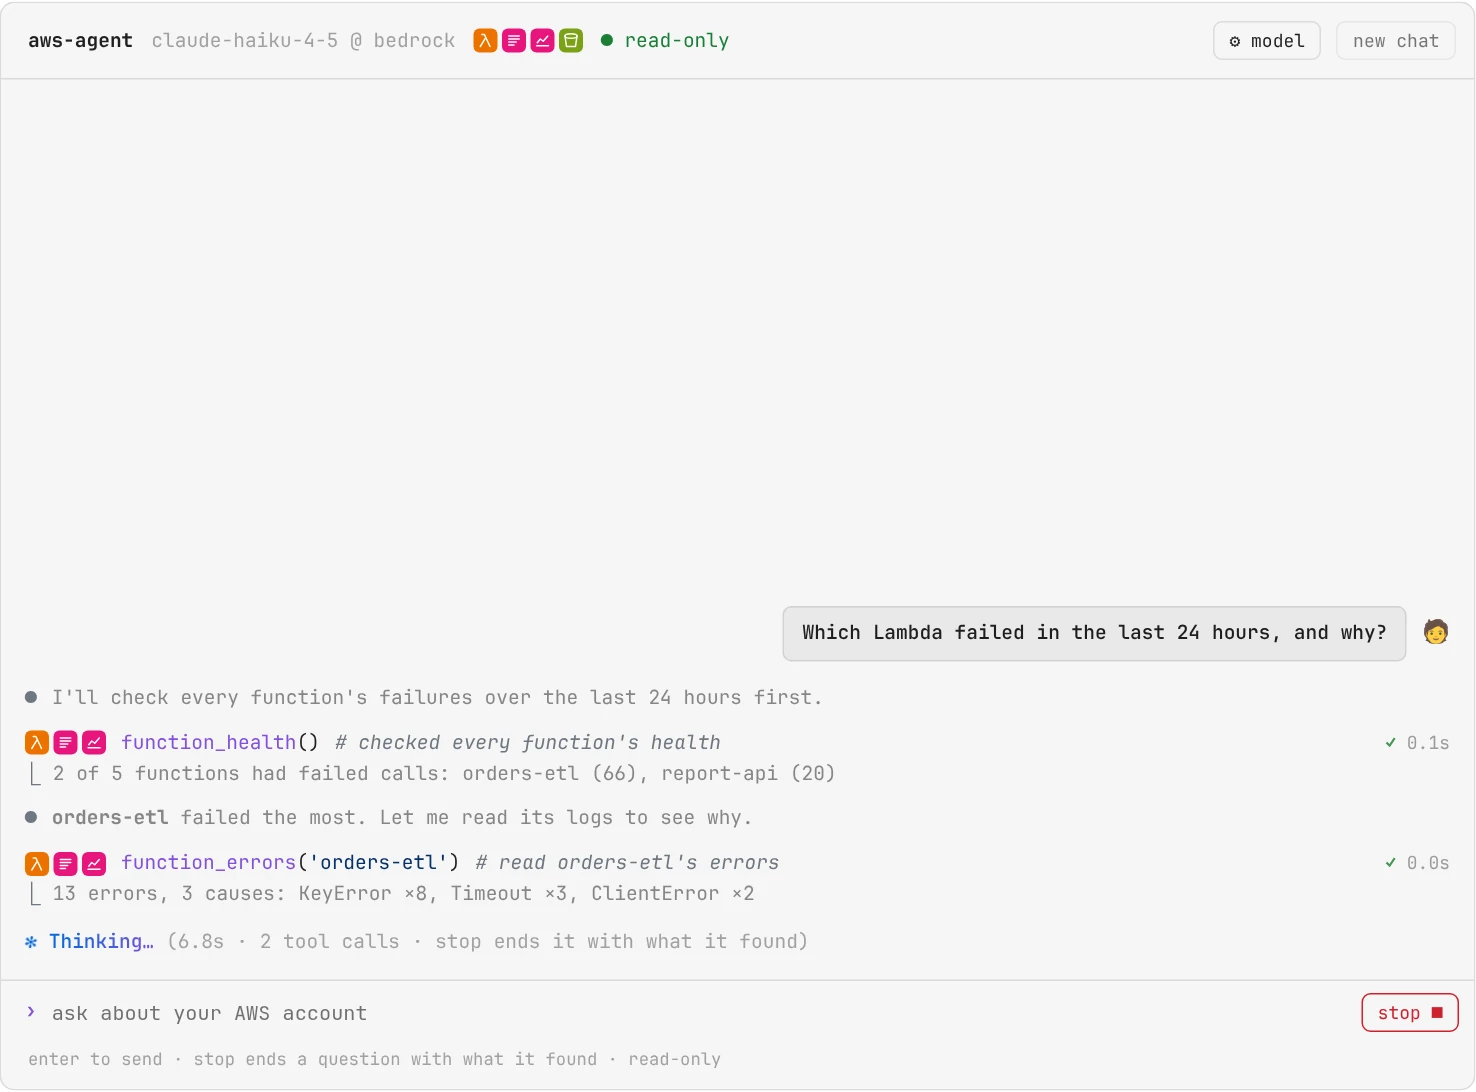
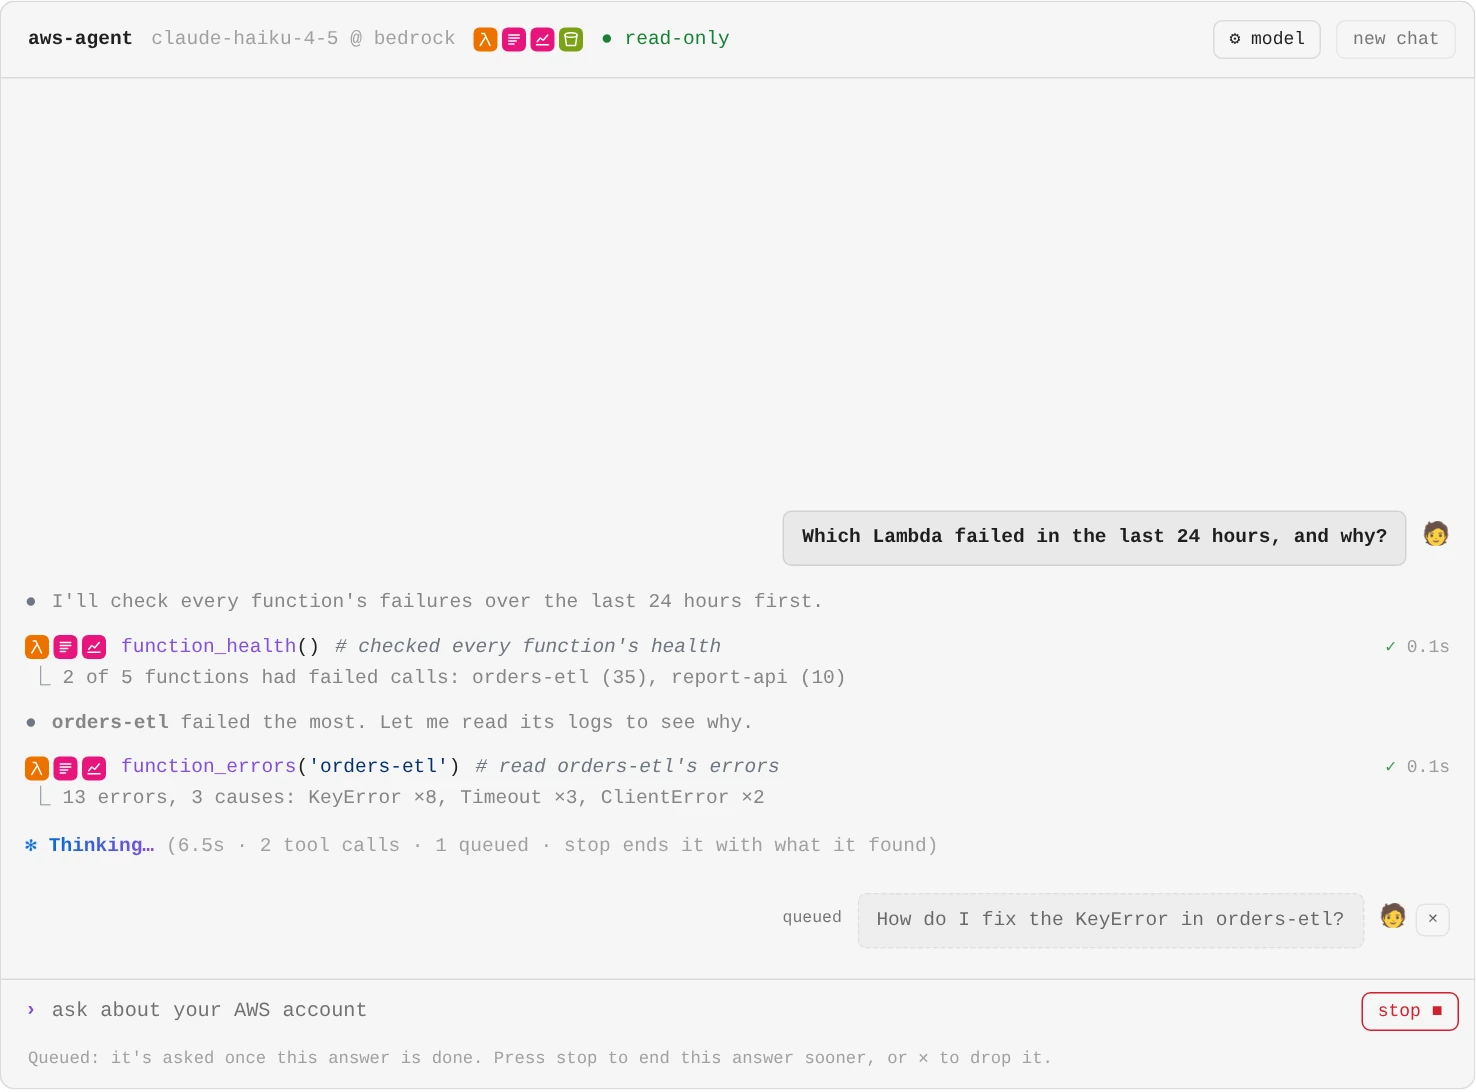
Agent: a stopped question ends with a written answer; queued line's ✕ shows
Stop no longer leaves a question without an answer. After the stop, the
harness streams one more turn telling the model to answer from what its
tools returned; every tool it calls anyway is refused, so nothing more is
read. A wrap-up that fails leaves the stop as the reason, not an error.

The queued question's ✕ was pushed out of the row by the question's full
width. The agent-chat-working figure now shows a queued follow-up and the
hint under the box. The window screenshot scripts pass set_height the
guide's file name, as it takes since the themes change, and the package
docstring names the window/ package.

Claude-Session: https://claude.ai/code/session_01Ue4yCBpdXZBdgW3Nkdf6rb

diff --git a/src/aws_analyzer/agent/harness.py b/src/aws_analyzer/agent/harness.py
@@ -12,6 +12,7 @@ from __future__ import annotations
 
 import functools
 import sys
+import time
 from typing import Any, Callable, Iterable
 
 from .._kit.deps import _require
@@ -22,6 +23,10 @@ from .llm import answer_cost, explain_model_error
 _MIN_PYTHON = (3, 11)
 HIDDEN_TOOLS = frozenset({"task", "execute"})
 _OVERTIME_SECONDS = 60
+_WRAP_UP_STEPS = 8
+_WRAP_UP_SECONDS = 90
+_WRAP_UP = ("[The user pressed stop before you finished. Don't call any more tools: they won't run. Answer the "
+            "question now from what your tools already returned, and say what you didn't get to check.]")
 _AI_MESSAGES = ("AIMessage", "AIMessageChunk")
 
 
@@ -66,11 +71,12 @@ def stream_turn(graph: Any, content: str, *, thread: str, run: _Run, answer: Age
     The run's listener is told what the model says before calling tools (the tools tell it their own steps). Each step comes whole: the model isn't streamed token by token, which on Bedrock would
     need another permission (InvokeModelWithResponseStream).
     Stops when `run.stop` is set, the kernel is interrupted (the notebook's stop button: it keeps what it found) or
-    the time budget is well past. A model or loop that fails, whatever it raises, sets answer.error (what it means
-    with this provider) and answer.exception instead of raising.
+    the time budget is well past. Stopped by `run.stop` before it wrote an answer, it asks the model for one
+    (_wrap_up). A model or loop that fails, whatever it raises, sets answer.error (what it means with this provider)
+    and answer.exception instead of raising.
     """
     cost_of = functools.partial(answer_cost, model_prices=model_prices, provider=provider)
-    base = answer.model
+    count = functools.partial(_count_usage, answer=answer, base=answer.model, run=run, cost_of=cost_of)
     steps = 0
     text = ""
     message = {"role": "user", "content": content}
@@ -78,7 +84,7 @@ def stream_turn(graph: Any, content: str, *, thread: str, run: _Run, answer: Age
     try:
         for update in graph.stream({"messages": [message]}, config=config, stream_mode="updates"):
             for msg in _model_messages(update):
-                _count_usage(msg, answer, base, run, cost_of)
+                count(msg)
                 if getattr(msg, "tool_calls", None):
                     _tell_thinking(msg, run)
                 else:
@@ -96,6 +102,34 @@ def stream_turn(graph: Any, content: str, *, thread: str, run: _Run, answer: Age
         answer.stopped = "steps" if type(exc).__name__ == "GraphRecursionError" else "error"
         answer.error = explain_model_error(exc, provider)
         answer.exception = exc
+    asked_to_stop = answer.stopped == "stopped" and run.stop.is_set()
+    if asked_to_stop and not text:
+        text = _wrap_up(graph, config, count)
+    return text
+
+
+def _wrap_up(graph: Any, config: dict[str, Any], count: Callable[[Any], None]) -> str:
+    """
+    The answer to a question the user stopped: one more turn in the same conversation, telling the model to answer
+    from what its tools returned, each model message counted like the question's own (`count`). Every tool it calls anyway is refused (run.stop is set, so check_budget says
+    so), and the turn ends after _WRAP_UP_STEPS steps or _WRAP_UP_SECONDS. A tool call the stop cut off is closed
+    by deepagents before the model sees it. A wrap-up that fails, or is interrupted, leaves the answer without text
+    and the stop as the reason, rather than an error the user didn't cause.
+    """
+    message = {"role": "user", "content": _WRAP_UP}
+    deadline = time.monotonic() + _WRAP_UP_SECONDS
+    text = ""
+    try:
+        for update in graph.stream({"messages": [message]}, config={**config, "recursion_limit": _WRAP_UP_STEPS},
+                                   stream_mode="updates"):
+            for msg in _model_messages(update):
+                count(msg)
+                if not getattr(msg, "tool_calls", None):
+                    text = _message_text(msg) or text
+            if text or time.monotonic() > deadline:
+                break
+    except (KeyboardInterrupt, Exception):  # noqa: BLE001
+        return text
     return text
 
 

diff --git a/tests/test_agent.py b/tests/test_agent.py
@@ -912,10 +912,23 @@ def test_next_steps_name_the_region_of_a_function_elsewhere(seeded):
 
 def test_a_stop_request_ends_the_question_with_what_it_found(seeded):
     stop = threading.Event()
-    model = scripted(calls(("function_health", {"since": "2h"})), says("never reached"))
+    model = scripted(calls(("function_health", {"since": "2h"})),
+                     calls(("function_errors", {"function": "etl-nightly", "since": "1h"})),
+                     says("Stopped early: I didn't get to check any function."))
     core = make(model)
-    answer = core.ask("What failed?", stop=stop, progress=lambda steps: stop.set())
-    assert answer.stopped == "stopped" and answer.text == ""
+    answer = core.ask("What failed?", stop=stop, on_step=lambda step: step.kind == "tool" and stop.set())
+    assert answer.stopped == "stopped" and answer.text == "Stopped early: I didn't get to check any function."
+    assert [(c.name, c.refused) for c in answer.calls] == [("function_health", "stopped"),
+                                                            ("function_errors", "stopped")]
+    wrap_up = [m for m in model.prompts[-1] if "The user pressed stop before you finished" in str(m.content)]
+    assert len(wrap_up) == 1 and answer.model_calls == 3 and answer.error is None
+
+
+def test_a_stop_whose_wrap_up_fails_ends_without_an_answer(seeded):
+    stop = threading.Event()
+    model = scripted(calls(("function_health", {"since": "2h"})), RuntimeError("model down"))
+    answer = make(model).ask("What failed?", stop=stop, progress=lambda steps: stop.set())
+    assert answer.stopped == "stopped" and answer.text == "" and answer.error is None
 
 
 def test_ask_about_s3_and_lambda_together(buckets, capsys):
@@ -1257,7 +1270,8 @@ def test_the_chat_window_shows_each_tool_call_then_the_answer(seeded):
 def test_the_chat_window_draws_the_agent_at_work_and_stops_it(seeded):
     gate = threading.Event()
     model = scripted(thinks("Checking health first.", ("function_health", {"since": "2h"})), gate,
-                     calls(("function_errors", {"function": "etl-nightly", "since": "1h"})), says("never reached"))
+                     calls(("function_errors", {"function": "etl-nightly", "since": "1h"})),
+                     says("So far: **etl-nightly** failed 40 times."))
     x = window(model)
 
     async def ask_and_stop():
@@ -1285,7 +1299,8 @@ def test_the_chat_window_draws_the_agent_at_work_and_stops_it(seeded):
     asyncio.run(ask_and_stop())
     shown = page(x)
     assert "You stopped it" in shown and "Thinking…" not in shown
-    assert '<span class="pf">function_errors</span>' not in shown and "never reached" not in shown
+    assert '<span class="pf">function_errors</span>' not in shown and "<strong>etl-nightly</strong> failed 40" in shown
+    assert "The agent stopped before it wrote an answer" not in shown
     assert not x.busy and not x.send_button.disabled and x.view.core.history[-1].stopped == "stopped"
 
 
@@ -1328,7 +1343,8 @@ def test_the_chat_window_queues_questions_typed_while_it_works(seeded):
 def test_a_queued_question_is_asked_after_stop(seeded):
     gate = threading.Event()
     model = scripted(thinks("Checking health first.", ("function_health", {"since": "2h"})), gate,
-                     calls(("function_errors", {"function": "etl-nightly", "since": "1h"})), says("the follow-up"))
+                     calls(("function_errors", {"function": "etl-nightly", "since": "1h"})), says("what it found"),
+                     says("the follow-up"))
     x = window(model)
 
     async def ask_stop_and_follow():
@@ -1346,7 +1362,7 @@ def test_a_queued_question_is_asked_after_stop(seeded):
     first, second = x.view.core.history
     assert first.stopped == "stopped" and second.question == "Only etl-nightly, please"
     assert second.text == "the follow-up" and not x.queued and not x.busy
-    assert "You stopped it" in page(x) and "the follow-up" in page(x)
+    assert first.text == "what it found" and "You stopped it" in page(x) and "the follow-up" in page(x)
 
 
 def test_the_queue_waits_after_an_answer_that_went_wrong(seeded):

diff --git a/.claude/skills/demo/agent_chat_shots.py b/.claude/skills/demo/agent_chat_shots.py
@@ -11,7 +11,8 @@ Haiku 4.5 on Amazon Bedrock: it says what it means to do, calls function_health 
 run, on the demo data), and answers from what they found, pausing before each reply the way a model does. It takes
 the window empty (agent-chat-start: the greeting and the questions to start from), with its model settings open on
 Amazon Bedrock (agent-chat-model: the provider list, the model box filled from demo.py's fake Bedrock model list, and
-where questions go and what they cost), then asks the question the way a person would, and takes it while the agent works (agent-chat-working: two tool calls done, Thinking… and Stop), once
+where questions go and what they cost), then asks the question the way a person would, and takes it while the agent works (agent-chat-working: two tool calls done, Thinking…, Stop, and a follow-up typed meanwhile,
+queued under it, which it then drops with its ✕ so the answer stays the last thing in the conversation), once
 it has answered (agent-chat: the steps folded above the answer), and with the steps and a tool call open
 (agent-chat-details: the first call's operations, window and data open). Each figure is the window, 984 CSS px wide at 1.5x like the other images, written to
 docs/images/<name>-{light,dark}.webp, and the height= of both its images is set in docs/agent.md, by shots.py's
@@ -44,6 +45,7 @@ from chat_shots import api, chrome, free_port  # noqa: E402
 WIDTH, SCALE, IMAGES = shots.WIDTH, shots.SCALE, shots.IMAGES
 FIGURES = ("agent-chat-start", "agent-chat-model", "agent-chat-working", "agent-chat", "agent-chat-details")
 QUESTION = "Which Lambda failed in the last 24 hours, and why?"
+FOLLOW_UP = "How do I fix the KeyError in orders-etl?"
 MODEL = "us.anthropic.claude-haiku-4-5-20251001-v1:0"
 PAUSE_SECONDS = 1.5
 ANSWER_PAUSE_SECONDS = 8.0
@@ -163,8 +165,12 @@ def shoot_theme(page, base: str, token: str, theme: str, wanted: list[str], out:
     box.press("Enter")
     page.wait_for_function("document.querySelectorAll('.agc-app .ag-step:not(.ag-run)').length === 2 && "
                            "document.querySelector('.agc-app .ag-pulse')", timeout=60_000)
-    time.sleep(1.2)
+    box.fill(FOLLOW_UP)
+    box.press("Enter")
+    page.wait_for_selector(".agc-app .agc-queued", timeout=10_000)
     shot("agent-chat-working")
+    page.locator(".agc-app .agc-drop").click()
+    page.wait_for_selector(".agc-app .agc-queued", state="detached", timeout=10_000)
     page.wait_for_selector(".agc-app .ag-ans", timeout=60_000)
     shot("agent-chat")
     page.locator(".agc-app .ag-trail > summary").click()
@@ -254,7 +260,7 @@ def main() -> int:
                     save(taken, theme, args.out, heights)
                 browser.close()
             for name, sizes in heights.items():
-                shots.set_height("agent", name, max(sizes))
+                shots.set_height(shots.GUIDES["agent"], name, max(sizes))
                 print(f"  {name}: {WIDTH} x {max(sizes)}", file=sys.stderr)
         finally:
             server.terminate()

diff --git a/src/aws_analyzer/agent/analyzer.py b/src/aws_analyzer/agent/analyzer.py
@@ -395,8 +395,9 @@ class AgentAnalyzer(_BaseAnalyzer):
     ) -> AgentAnswer:
         """
         Answers a question: the model calls the tools until it can answer, within the budget. Follow-up questions
-        continue the conversation (new=True starts a new one). Set `stop` (a threading.Event) to stop it early, or
-        interrupt the kernel: either way the answer covers what it read until then. progress(count) is told each
+        continue the conversation (new=True starts a new one). Set `stop` (a threading.Event) to stop it early: the
+        tools stop, and the model writes its answer from what it read until then. Interrupting the kernel stops it at
+        once, with what it read but no answer written. progress(count) is told each
         step, and on_step(AgentStep) what the agent does as it does it (its words, its plan, each tool call as it
         starts and ends), from the threads the tools run on. A model or loop that fails gives an answer with .error
         set (and .exception) instead of raising.

diff --git a/src/aws_analyzer/agent/window/chat.py b/src/aws_analyzer/agent/window/chat.py
@@ -807,7 +807,9 @@ class _AgentChat(_Window):
         drop = self.w.Button(description="✕", tooltip="Don't ask this", layout=self.w.Layout(width="auto",
                                                                                             flex="0 0 auto"))
         drop.add_class("agc-drop")
-        row = self.w.HBox([self._html(_wrap(_queued_html(question))), drop],
+        line = self.w.HTML(_wrap(_queued_html(question)), layout=self.w.Layout(flex="1 1 auto", width="auto",
+                                                                               min_width="0"))
+        row = self.w.HBox([line, drop],
                           layout=self.w.Layout(width="100%", flex="0 0 auto", align_items="center"))
         row.add_class("agc-queued")
         waiting = _Queued(question, row)

diff --git a/src/aws_analyzer/agent/__init__.py b/src/aws_analyzer/agent/__init__.py
@@ -63,7 +63,8 @@ One concern per module, so a new service's tools or a new agent capability goes 
                      findings and next steps a report shows about them.
     analyzer.py      AgentAnalyzer: the settings, and the parts put together. Returns data; never prints.
     view.py          AgentView: the notebook UI, each answer as a report.
-    window.py        The chat window (AgentView.chat()): the agent's steps drawn as they happen, then the answer.
+    window/          The chat window (AgentView.chat()): the agent's steps drawn as they happen, then the answer
+                     (chat.py), and its ⚙ model panel (model_panel.py).
 """
 
 from __future__ import annotations

diff --git a/.claude/skills/demo/explorer_shots.py b/.claude/skills/demo/explorer_shots.py
@@ -328,7 +328,7 @@ def main() -> int:
                             image = Image.open(png).convert("RGB")
                             image.save(out, "WEBP", quality=90, method=6)
                         heights.add(round(image.height / shots.SCALE))
-                    shots.set_height("s3_explorer", figure.name, max(heights))
+                    shots.set_height(shots.GUIDES["s3_explorer"], figure.name, max(heights))
                     print(f"  {figure.name}: {shots.WIDTH} x {max(heights)}", file=sys.stderr)
                 browser.close()
         finally:

diff --git a/.claude/skills/demo/lambda_explorer_shots.py b/.claude/skills/demo/lambda_explorer_shots.py
@@ -219,7 +219,7 @@ def main() -> int:
                         heights.setdefault(name, set()).add(round(image.height / SCALE))
                 browser.close()
             for name, sizes in heights.items():
-                shots.set_height("lambda_functions", name, max(sizes))
+                shots.set_height(shots.GUIDES["lambda_functions"], name, max(sizes))
                 print(f"  {name}: {WIDTH} x {max(sizes)}", file=sys.stderr)
         finally:
             server.terminate()

diff --git a/.claude/skills/demo/chat_shots.py b/.claude/skills/demo/chat_shots.py
@@ -323,7 +323,7 @@ def main() -> int:
                         heights.setdefault(name, set()).add(round(image.height / SCALE))
                 browser.close()
             for name, sizes in heights.items():
-                shots.set_height("bedrock_chat", name, max(sizes))
+                shots.set_height(shots.GUIDES["bedrock_chat"], name, max(sizes))
                 print(f"  {name}: {WIDTH} x {max(sizes)}", file=sys.stderr)
         finally:
             server.terminate()

diff --git a/.claude/skills/demo/kb_explorer_shots.py b/.claude/skills/demo/kb_explorer_shots.py
@@ -204,7 +204,7 @@ def main() -> int:
                         heights.setdefault(name, set()).add(round(image.height / SCALE))
                 browser.close()
             for name, sizes in heights.items():
-                shots.set_height("bedrock_kb", name, max(sizes))
+                shots.set_height(shots.GUIDES["bedrock_kb"], name, max(sizes))
                 print(f"  {name}: {WIDTH} x {max(sizes)}", file=sys.stderr)
         finally:
             server.terminate()

diff --git a/docs/agent.md b/docs/agent.md
@@ -140,10 +140,10 @@ Each tool call shows as the code it is, with a badge for every AWS service it re
 
 Point at a badge to see the service's full name. A comment beside the call says what it does in plain English, and the line under it (`⎿`) says what it found.
 
-![The chat window while the agent works, in the dark theme: on the right, the question Which Lambda failed in the last 24 hours, and why?, marked with a person emoji; ● I'll check every function's failures over the last 24 hours first; then the Lambda, Logs and CloudWatch badges before function_health() # checked every function's health, ✓ 0.1s, and under it 2 of 5 functions had failed calls: orders-etl (66), report-api (20); ● orders-etl failed the most, let me read its logs; the same badges before function_errors('orders-etl') # read orders-etl's errors, with 13 errors, 3 causes: KeyError ×8, Timeout ×3, ClientError ×2; and ✻ Thinking… with the time so far, 2 tool calls, and stop ends it with what it found; the send button reads stop](images/agent-chat-working-light.webp#only-light){ width="984" height="728" loading=lazy }
-![The chat window while the agent works, in the dark theme: on the right, the question Which Lambda failed in the last 24 hours, and why?, marked with a person emoji; ● I'll check every function's failures over the last 24 hours first; then the Lambda, Logs and CloudWatch badges before function_health() # checked every function's health, ✓ 0.1s, and under it 2 of 5 functions had failed calls: orders-etl (66), report-api (20); ● orders-etl failed the most, let me read its logs; the same badges before function_errors('orders-etl') # read orders-etl's errors, with 13 errors, 3 causes: KeyError ×8, Timeout ×3, ClientError ×2; and ✻ Thinking… with the time so far, 2 tool calls, and stop ends it with what it found; the send button reads stop](images/agent-chat-working-dark.webp#only-dark){ width="984" height="728" loading=lazy }
+![The chat window while the agent works: on the right, the question Which Lambda failed in the last 24 hours, and why?, marked with a person emoji; ● I'll check every function's failures over the last 24 hours first; then the Lambda, Logs and CloudWatch badges before function_health() # checked every function's health, ✓ 0.2s, and under it 2 of 5 functions had failed calls: orders-etl (35), report-api (10); ● orders-etl failed the most, let me read its logs; the same badges before function_errors('orders-etl') # read orders-etl's errors, with 13 errors, 3 causes: KeyError ×8, Timeout ×3, ClientError ×2; ✻ Thinking… with the time so far, 2 tool calls, 1 queued, and stop ends it with what it found; under it a follow-up typed meanwhile, How do I fix the KeyError in orders-etl?, dimmed in a dashed box marked queued, with a ✕ beside it; the send button reads stop, and the line under the box says the question is asked once this answer is done](images/agent-chat-working-light.webp#only-light){ width="984" height="728" loading=lazy }
+![The chat window while the agent works: on the right, the question Which Lambda failed in the last 24 hours, and why?, marked with a person emoji; ● I'll check every function's failures over the last 24 hours first; then the Lambda, Logs and CloudWatch badges before function_health() # checked every function's health, ✓ 0.2s, and under it 2 of 5 functions had failed calls: orders-etl (35), report-api (10); ● orders-etl failed the most, let me read its logs; the same badges before function_errors('orders-etl') # read orders-etl's errors, with 13 errors, 3 causes: KeyError ×8, Timeout ×3, ClientError ×2; ✻ Thinking… with the time so far, 2 tool calls, 1 queued, and stop ends it with what it found; under it a follow-up typed meanwhile, How do I fix the KeyError in orders-etl?, dimmed in a dashed box marked queued, with a ✕ beside it; the send button reads stop, and the line under the box says the question is asked once this answer is done](images/agent-chat-working-dark.webp#only-dark){ width="984" height="728" loading=lazy }
 /// caption
-**While it works**: what the model says before it acts (`●`), each call with its services and what it found, and **stop** to end it with what it found so far.
+**While it works**: what the model says before it acts (`●`), each call with its services and what it found, a question you typed meanwhile waiting its turn, and **stop** to end it with what it found so far.
 ///
 
 Once it has answered, the steps fold into one line (how many calls, how long, and the services they read) and the answer leads. Under it: anything you should know about how it was reached, who answered, what it took and cost, and **details** with every call, the AWS reads and how the cost was worked out.

diff --git a/CLAUDE.md b/CLAUDE.md
@@ -801,7 +801,8 @@ functions); a test patches a name in the module that looks it up (`harness._MIN_
   the default in-memory `StateBackend`: never a `FilesystemBackend` or a sandbox. A new capability of the loop (a
   subagent, a middleware) goes in `build_graph()`. `stream_turn()` streams one question (`stream_mode="updates"`),
   adds up each AIMessage's `usage_metadata` (and the served model's name), stops on `stop` (a `threading.Event`),
-  `KeyboardInterrupt` or the hard time limit, and catches a model or loop error into `AgentAnswer.error` with
+  `KeyboardInterrupt` or the hard time limit (after `stop`, with no answer yet, `_wrap_up` streams one more turn,
+  `_WRAP_UP`, in which every tool is refused, so the model writes its answer), and catches a model or loop error into `AgentAnswer.error` with
   `.exception` kept. Everything about LangGraph's messages stays in this file.
 - **`AgentAnalyzer`** (`analyzer.py`) holds the settings and puts the parts together: `ask()` makes the `_Run` and
   the `AgentAnswer`, calls `stream_turn()`, and fills in what the guard and the run counted. `AgentView` (`view.py`)
